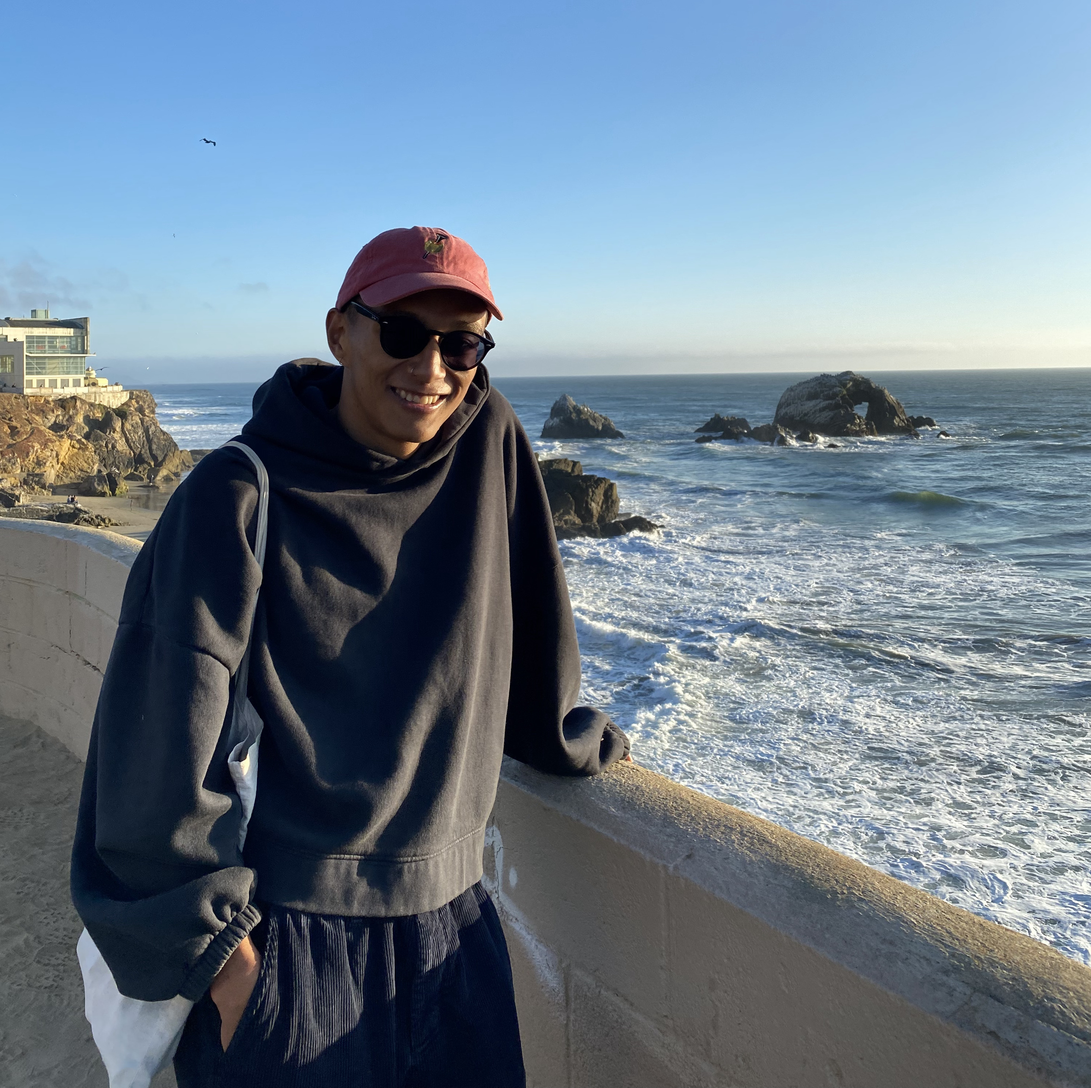
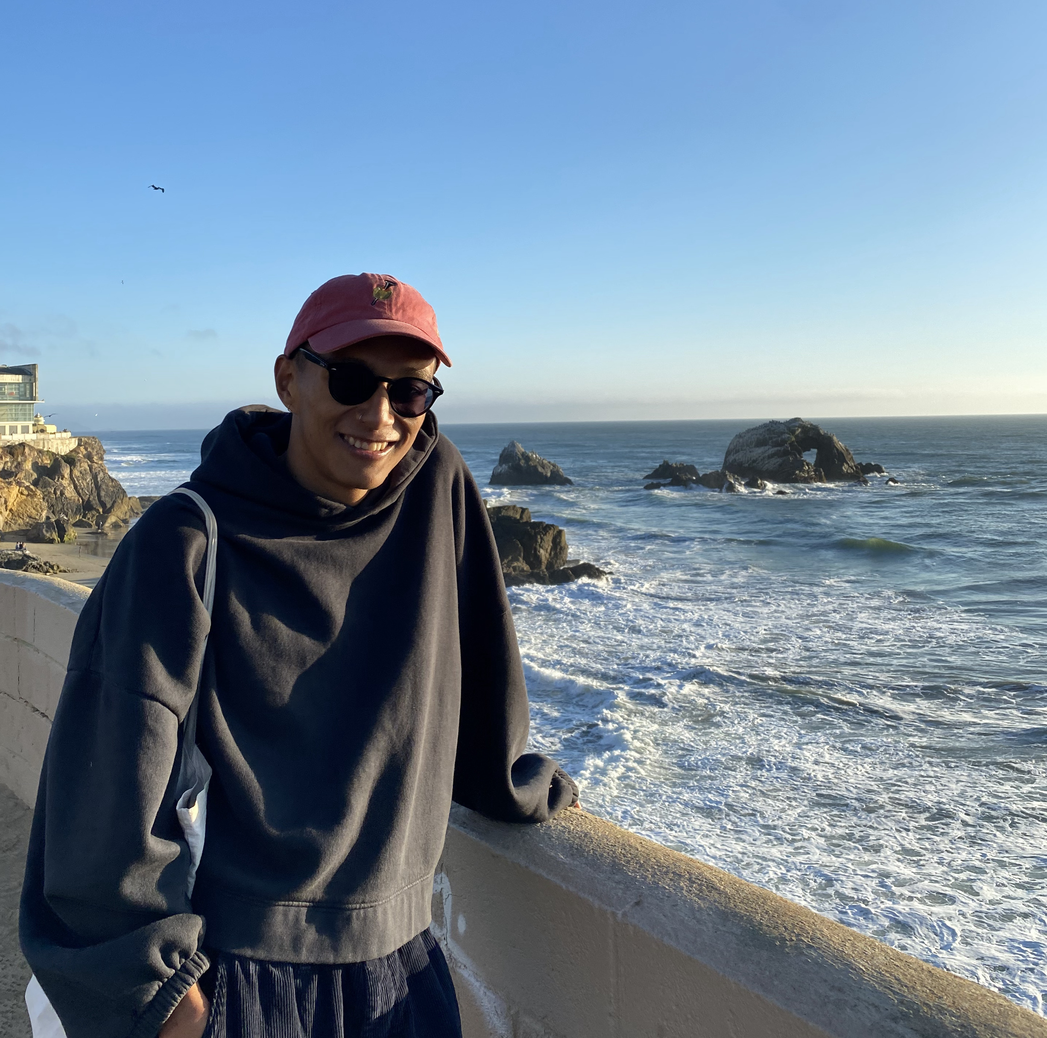
final changes for now

diff --git a/research.html b/research.html
@@ -9,11 +9,11 @@
             }
 
             .image-cropper {
-                width: 350px;
-                height: 350px;
+                width: 250px;
+                height: 250px;
                 position: relative;
                 overflow: hidden;
-                border-radius: 90%;
+                border-radius: 60%;
             }
 
             img {
@@ -35,26 +35,19 @@
             }
             .text-section {  
                 font-size: 17px;
-                width:65%;
+                width:60%;
                 display: table-cell;
             }
             .img-section {  
-                width:35%;
+                width:30%;
                 display: table-cell;
             }
 
             a {
                 text-decoration: none;
                 color: blue;
-            }
-
-            a.ext-link:hover  {
-                background-color: pink;
-                text-shadow: 0px 0px 0.5px;
-            }
-
-
-            button.button-55 {
+             }
+            .button-55 {
                 align-self: center;
                 background-color: #fff;
                 background-image: none;
@@ -82,9 +75,7 @@
                 border-top-right-radius: 15px 225px;
                 user-select: none;
                 -webkit-user-select: none;
-                touch-action: manipulation;    
-                position: relative;
-                left: 35%;
+                touch-action: manipulation;
             }
 
             .button-55:hover {
@@ -100,39 +91,19 @@
                 text-align: center;
             }
           </style>
-
-          
  
     </head>
 
-
-<body style="background-color:hsla(13, 100%, 86%, 0.815)">
-    <div class = "text-section">
-
-        <h1>Sirig Gurung</h1>
-            <button class="button-55" role="button"><span class="text"><a href="./index.html" style="color:black">Home</a></span></button>
-            <button class="button-55" role="button"><span class="text"><a href="./research.html" style="color:black">Research</a></span></button>
-            <button class="button-55" role="button"><span class="text"><a href="./pdf files/SirigGurung_CV.pdf" style="color:black">CV (Jan '23)</a></span></button>
-        <p>Hello! I'm Sirig and I'm from Kathmandu, Nepal.  </p>
-         <p></p> I currently work as a predoctoral research fellow at Stanford Institute 
-            for Economic Policy and Research (SIEPR). I work with <a href = "http://stanford.edu/~memorten/Melanie_Morten.html" class = "ext-link">Melanie Morten</a> and <a href = "https://jweinstein.sites.stanford.edu/" class = "ext-link">Jeremy Weinstein</a> on large-scale RCTs that encourage temporary migration in Mexico and Niger. 
-            My primary interests lie in Development, Migration and Networks.</p>
-
-        <p>Previously, I was lucky to work as a research assistant to <a href = "https://sites.google.com/site/davinchor/?pli=1" class = "ext-link">Davin Chor</a> at the Tuck School of Business, conducting research on Trade and the Political Economy. I graduated from Amherst College in 2021 with a B.A. in Economics and Mathematics. </p> 
-            
-        <p>You can reach me at sirigg (at) stanford (dot) edu.</p>
-    </div>
-
-    <div class = "img-section">
-        <div class="ui-bar-a">
-            <div class="center-image">
-                <div class = "image-cropper">
-                    <img src = "images/random2.jpg" class = "rounded">
-                </div>   
-            </div>
-        </div>
-
-    </div>
+    <body style="background-color:hsla(13, 100%, 86%, 0.815)">
+            <h1>Sirig Gurung</h1>
+                <button class="button-55" role="button"><span class="text"><a href="./index.html" style="color:black">Home</a></span></button>
+                <button class="button-55" role="button"><span class="text"><a href="./research.html" style="color:black">Research</a></span></button>
+                <button class="button-55" role="button"><span class="text"><a href="./pdf files/SirigGurung_CV.pdf" style="color:black">CV (Jan '23)</a></span></button>
+    <h2 font-size: x-large> Research in Progress</h2>
+    <ul style="list-style:none;">
+        <li><strong>"The Great Firewall and Knowledge Diffusion"</strong><br>
+        with <a href = "https://www.andrewbbernard.com/">Andrew Bernard</a>, <a href = "http://www.estherboler.com/">Esther Bøler</a>, <a href = "https://sites.google.com/site/davinchor/?pli=1">Davin Chor</a> and Wei Lu</li>
+    </ul>
 
 </body>
 
